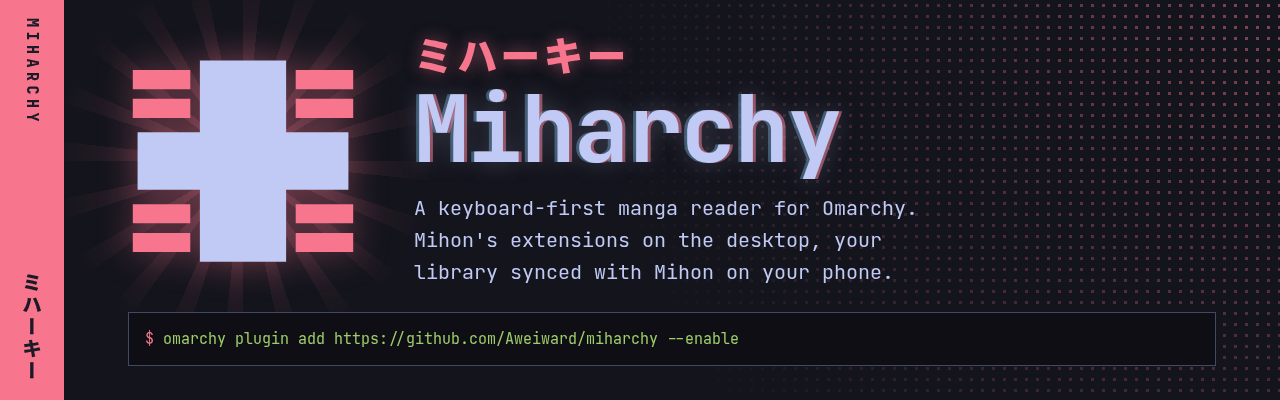
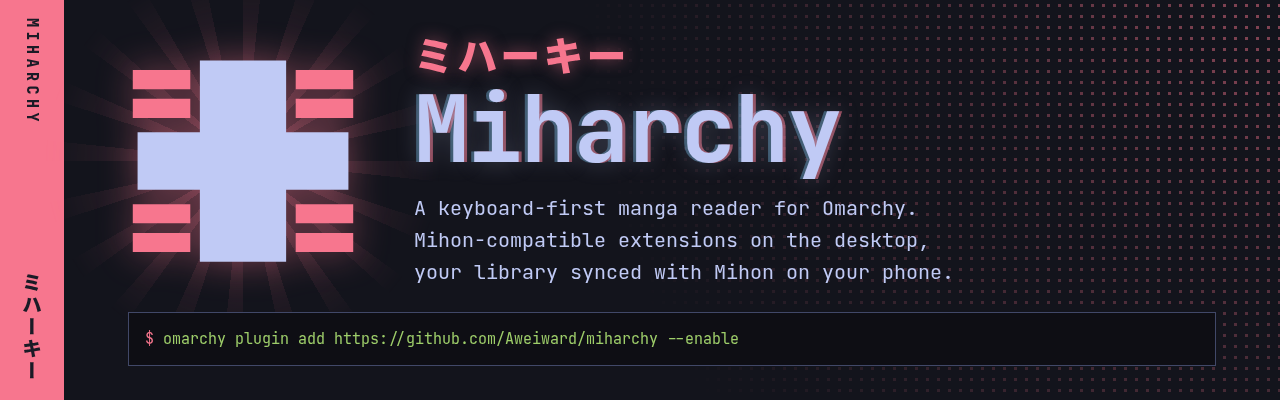
README and site: Mihon-compatible extensions, not Mihon's
Mihon says it does not have, associate or provide any repositories or
extensions (mihon.app/docs/faq/browse/extensions). Say Mihon-compatible
extensions and the extension repos you add, and state that Miharchy
provides none and hosts no content. The banner is rendered again from
the new hero.

Changed region(s): [[0.3125, 0.66, 0.75, 0.72], [0.375, 0.57, 0.7188, 0.63]]

diff --git a/site/index.html b/site/index.html
@@ -4,7 +4,7 @@
 <meta charset="utf-8">
 <meta name="viewport" content="width=device-width, initial-scale=1">
 <title>Miharchy</title>
-<meta name="description" content="A keyboard-first manga reader for Omarchy. Mihon's extensions through Suwayomi-Server, synced with Mihon on your phone.">
+<meta name="description" content="A keyboard-first manga reader for Omarchy. Mihon-compatible extensions through Suwayomi-Server, synced with Mihon on your phone.">
 <meta name="theme-color" content="#1a1b26">
 <meta property="og:title" content="Miharchy">
 <meta property="og:description" content="A keyboard-first manga reader for Omarchy that syncs with Mihon.">
@@ -357,7 +357,7 @@ footer img { width: 32px; height: 32px; display: inline-block; vertical-align: m
       <div class="title">
         <p class="kata" lang="ja" aria-hidden="true">ミハーキー</p>
         <h1>Miharchy</h1>
-        <p class="pitch">A keyboard-first manga reader for Omarchy. Mihon's extensions on the desktop, your library synced with Mihon on your phone.</p>
+        <p class="pitch">A keyboard-first manga reader for Omarchy. Mihon-compatible extensions on the desktop, your library synced with Mihon on your phone.</p>
       </div>
       <div class="install">
         <code id="cmd">omarchy plugin add https://github.com/Aweiward/miharchy --enable</code>
@@ -365,7 +365,7 @@ footer img { width: 32px; height: 32px; display: inline-block; vertical-align: m
       </div>
       <ul class="tags">
         <li>Omarchy plugin</li>
-        <li>Mihon extensions</li>
+        <li>Mihon-compatible extensions</li>
         <li>Syncs with Mihon</li>
         <li>MIT</li>
       </ul>
@@ -401,7 +401,7 @@ footer img { width: 32px; height: 32px; display: inline-block; vertical-align: m
     </figure>
     <figure class="tape wide">
       <a href="img/browse.webp"><img src="img/browse.webp" width="1280" height="800" alt="Browse: MangaDex with six filters applied, a cover grid of the most-followed award-winning series such as Solo Leveling, Frieren, Komi Can't Communicate, SPY×FAMILY, Kaguya-sama, Delicious in Dungeon and Attack on Titan, with titles already in the library marked." loading="lazy"></a>
-      <figcaption><span class="no">06</span><span class="txt"><b>Browse.</b> Every source from Mihon's extension repos. Here MangaDex with its own filters: safe, award winning, most followed.</span></figcaption>
+      <figcaption><span class="no">06</span><span class="txt"><b>Browse.</b> Every source from the extension repos you add. Here MangaDex with its own filters: safe, award winning, most followed.</span></figcaption>
     </figure>
   </div>
 </section>
@@ -470,7 +470,7 @@ footer img { width: 32px; height: 32px; display: inline-block; vertical-align: m
     <div class="feat"><span class="ico">KEYS</span><h3>Keyboard first</h3><p>vim keys everywhere, and <kbd>:</kbd> opens a palette of every command.</p></div>
     <div class="feat"><span class="ico">MOUSE</span><h3>Mouse too</h3><p>Click, double-click, scroll and tap zones in the reader. Hints are buttons.</p></div>
     <div class="feat"><span class="ico">READ</span><h3>Five reading modes</h3><p>Paged both ways, vertical, webtoon and continuous. Two-page spreads, page fit, split wide pages.</p></div>
-    <div class="feat"><span class="ico">SRC</span><h3>Mihon's extensions</h3><p>Install from extension repos, search one source or all of them, set source filters and settings.</p></div>
+    <div class="feat"><span class="ico">SRC</span><h3>Mihon-compatible extensions</h3><p>Install from extension repos, search one source or all of them, set source filters and settings.</p></div>
     <div class="feat"><span class="ico">TRACK</span><h3>Trackers</h3><p>Log in to the trackers Suwayomi offers. Progress goes out when you finish a chapter.</p></div>
     <div class="feat"><span class="ico">LOCAL</span><h3>Local manga</h3><p>Point it at a folder of chapters or CBZ files and read them like any source.</p></div>
     <div class="feat"><span class="ico">DL</span><h3>Downloads</h3><p>A queue you can reorder, CBZ, auto-download of new chapters, delete after reading.</p></div>
@@ -508,7 +508,7 @@ footer img { width: 32px; height: 32px; display: inline-block; vertical-align: m
     <span><img src="miharchy.svg" alt="" width="32" height="32"><b>Miharchy</b> · MIT · <a href="https://github.com/Aweiward/miharchy">github.com/Aweiward/miharchy</a></span>
     <span>Built on <a href="https://github.com/mihonapp/mihon">Mihon</a>, <a href="https://github.com/Suwayomi/Suwayomi-Server">Suwayomi-Server</a> and <a href="https://omarchy.org">Omarchy</a>.</span>
   </div>
-  <p class="note">Miharchy is not affiliated with Mihon, Suwayomi or Omarchy. Manga covers and pages in the captures belong to their authors and publishers, and are shown only to illustrate the reader.</p>
+  <p class="note">Miharchy is not affiliated with Mihon, Suwayomi or Omarchy. It provides no extensions or extension repos and hosts no content: extension repos are third-party, so add only ones you trust. Manga covers and pages in the captures belong to their authors and publishers, and are shown only to illustrate the reader.</p>
 </footer>
 
 <script>

diff --git a/README.md b/README.md
@@ -1,10 +1,12 @@
-<a href="https://aweiward.github.io/miharchy/"><img src="site/banner.png" alt="Miharchy: a keyboard-first manga reader for Omarchy. Mihon's extensions on the desktop, your library synced with Mihon on your phone." width="1280"></a>
+<a href="https://aweiward.github.io/miharchy/"><img src="site/banner.png" alt="Miharchy: a keyboard-first manga reader for Omarchy. Mihon-compatible extensions on the desktop, your library synced with Mihon on your phone." width="1280"></a>
 
 # Miharchy
 
 See it in action on [aweiward.github.io/miharchy](https://aweiward.github.io/miharchy/).
 
-A manga reader that feels native on [Omarchy](https://omarchy.org). It uses [Mihon](https://github.com/mihonapp/mihon)'s sources and extensions through [Suwayomi-Server](https://github.com/Suwayomi/Suwayomi-Server), and it syncs your library with Mihon on your phone.
+A manga reader that feels native on [Omarchy](https://omarchy.org). It runs [Mihon](https://github.com/mihonapp/mihon)-compatible extensions from the extension repos you add, through [Suwayomi-Server](https://github.com/Suwayomi/Suwayomi-Server), and it syncs your library with Mihon on your phone.
+
+Miharchy is not affiliated with Mihon, Suwayomi or Omarchy. It provides no extensions or extension repos and hosts no content. Extension repos are third-party: add only ones you trust.
 
 Status: early. See `GLOSSARY.md` and `docs/adr/`.
 

diff --git a/GLOSSARY.md b/GLOSSARY.md
@@ -1,6 +1,6 @@
 # Miharchy
 
-Miharchy is a manga reader for Omarchy. It reads from Mihon's extension ecosystem and shares a library with Mihon on a phone.
+Miharchy is a manga reader for Omarchy. It reads Mihon-compatible extensions and shares a library with Mihon on a phone.
 
 ## Language
 
@@ -15,11 +15,11 @@ The built-in source (id 0) that reads manga from a folder on disk: a folder per 
 _Avoid_: local library, offline source
 
 **Extension**:
-A package from a Mihon extension repo that provides one or more sources.
-_Avoid_: plugin, addon
+A Mihon-compatible package from an extension repo that provides one or more sources.
+_Avoid_: plugin, addon, Mihon's extensions
 
 **Extension repo**:
-A published index of extensions that the user adds by URL.
+A third-party published index of extensions that the user adds by URL. Miharchy provides none, as Mihon provides none.
 _Avoid_: store, registry
 
 **Manga**:

diff --git a/AGENTS.md b/AGENTS.md
@@ -1,6 +1,6 @@
 # Miharchy
 
-A manga reader for Omarchy (Arch + Hyprland). It reads Mihon's extension ecosystem through Suwayomi-Server and syncs with stock Mihon on a phone through backup files.
+A manga reader for Omarchy (Arch + Hyprland). It reads Mihon-compatible extensions through Suwayomi-Server and syncs with stock Mihon on a phone through backup files.
 
 ## Read first
 
